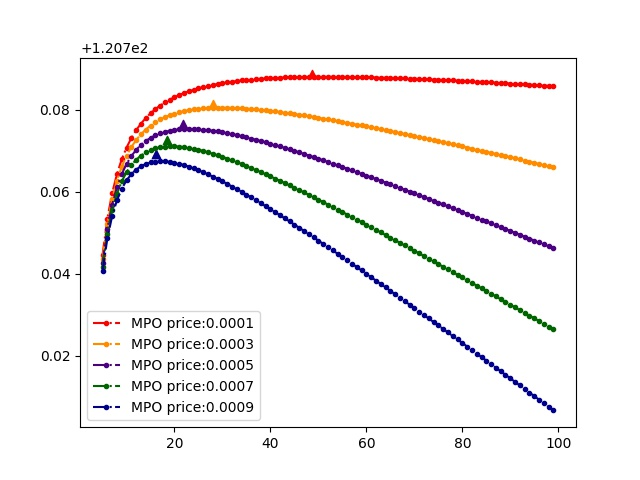
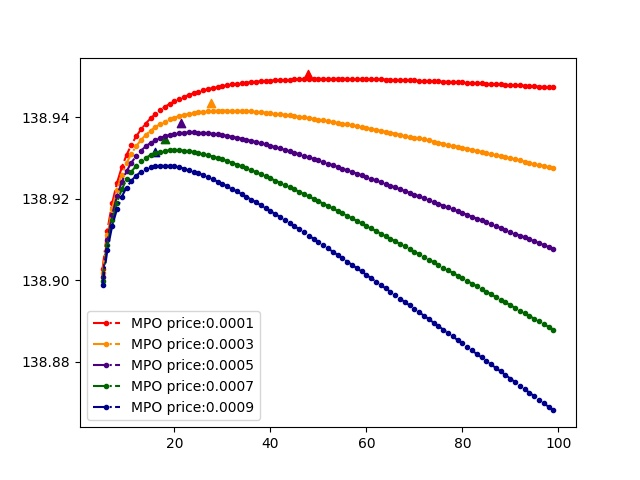
Discontinuous Point(closed form)

diff --git a/simulation_code/asp.py b/simulation_code/asp.py
@@ -20,6 +20,9 @@ class ASP():
         self.chi = 0.999
         self.gamma = 100
         self.phi = 0.1
+        self.rbound = 0
+        self.lbound = 0
+        self.mbound = 0
 
     def set_users(self):
         for i in range(self.num_of_normal_users):
@@ -50,10 +53,24 @@ class ASP():
             util += (dev.price_per_task * (1 - ((dev.transmission_time_to_asp + self.process_time - ASP_DEVICE_LATENCY_LOWER) / (ASP_DEVICE_LATENCY_UPPER - ASP_DEVICE_LATENCY_LOWER))))
         self.utility = util - self.mpo_price * self.z_v
         return
+    def time(self, z_v, z_h):
+        return 1 / ((z_v - z_h) * self.service_rate - (self.arrival_rate - ASP_H(z_h)))
+    def set_boundary(self):
+        z_v = (self.arrival_rate + self.gamma)/self.service_rate
+        z_h = self.chi * z_v
+        util1 = 0
+        util2 = 0
+        for dev in self.device_list:
+            util1 += (dev.price_per_task * (1 - ((dev.transmission_time_to_asp + self.time(z_v, z_h) - ASP_DEVICE_LATENCY_LOWER) / (ASP_DEVICE_LATENCY_UPPER - ASP_DEVICE_LATENCY_LOWER))))
+            util2 += (dev.price_per_task * (1 - ((dev.transmission_time_to_asp + self.time(z_v, 0) - ASP_DEVICE_LATENCY_LOWER) / (ASP_DEVICE_LATENCY_UPPER - ASP_DEVICE_LATENCY_LOWER))))
+        self.rbound = util1/z_v
+        self.mbound = util2/z_v
+        self.lbound = self.total_payment / ((ASP_DEVICE_LATENCY_UPPER - ASP_DEVICE_LATENCY_LOWER) * ((1 - self.chi) * self.service_rate + self.chi * GLOBAL_ETA)) / (z_v - self.arrival_rate / ((1 - self.chi) * self.service_rate + self.chi * GLOBAL_ETA))**2
+        return
 
     def set_process_time(self):
         self.process_time = 1 / ((self.z_v - self.z_h) * self.service_rate - (self.arrival_rate - ASP_H(self.z_h)))
-
+    
     def optimize_zv(self):
         if GLOBAL_ETA > self.service_rate:
             self.z_v = sqrt(self.total_payment / ((ASP_DEVICE_LATENCY_UPPER - ASP_DEVICE_LATENCY_LOWER) * self.mpo_price * ((1 - self.chi) * self.service_rate + self.chi * GLOBAL_ETA))) + self.arrival_rate / ((1 - self.chi) * self.service_rate + self.chi * GLOBAL_ETA)

diff --git a/simulation_code/mpo.py b/simulation_code/mpo.py
@@ -10,7 +10,7 @@ class MPO():
         self.asp_lst = []
         self.num_of_asp = randint(MPO_NUM_OF_ASP_LOWER, MPO_NUM_OF_ASP_UPPER)
         self.set_asp()
-
+        self.bd = []
     def set_asp(self):
         for i in range(self.num_of_asp):
             self.asp_lst.append(ASP())
@@ -25,12 +25,21 @@ class MPO():
         for asp in self.asp_lst:
             tot += asp.z_v
         return tot
+    def set_bd(self):
+        for asp in self.asp_lst:
+            asp.set_boundary()
+            if  asp.rbound > 1000 and asp.rbound < 7000:
+                self.bd.append(asp.rbound)
+            if  asp.mbound > 1000 and asp.mbound < 7000:
+                self.bd.append(asp.mbound)
 
+        return
     def optimize_phi(self):
         phi = 1000
         step = 6
         pr = []
         ut = []
+        bound = []
         for _ in range(1000):
             self.set_price_per_vm(phi)
             for asp in self.asp_lst:
@@ -50,6 +59,10 @@ class MPO():
             #     print(((vm_prior * phi) - (vm_after * (phi + step))))
             #     print('break')
             #     break
+        #self.setbd()
+        self.set_bd()
+        z1 = [0] * len(self.bd)
         plt.plot(pr, ut, marker='.', linestyle='-.')
+        plt.scatter(self.bd, z1, marker='.', color ='red')
         plt.savefig('./utility.jpg')
         plt.close()
